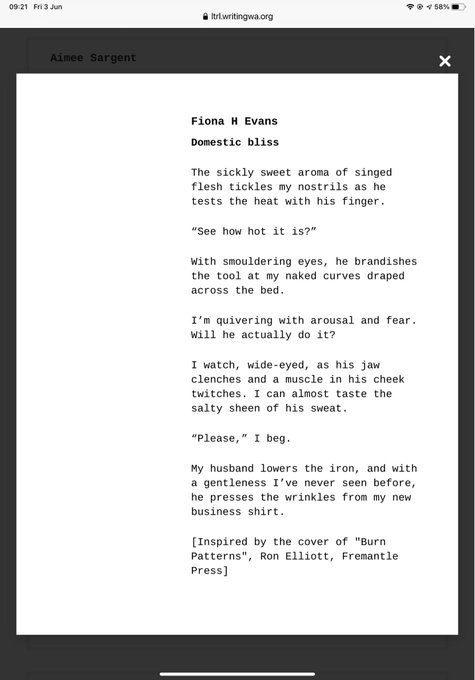
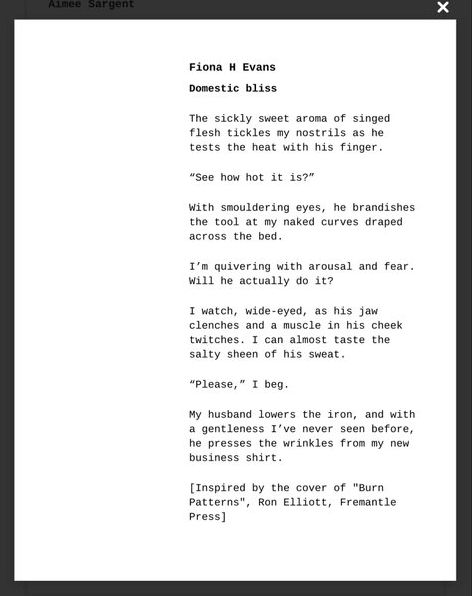
Domestic Bliss

Changed region(s): [[0.0, 0.0, 1.0, 0.9966], [0.3856, 0.3322, 0.8898, 0.604], [0.3856, 0.6342, 0.8898, 0.8758]]

diff --git a/content/post/2022-06-03.html b/content/post/2022-06-03.html
@@ -13,16 +13,25 @@ tags: ["Drabble", "Microfiction"]
 
 
 <p>My entry the WA Writing Love to Read Local Flash Fiction Competition is <a href="https://ltrl.writingwa.org/flash-fiction-competition-entries/page/8/#book1603">online</a>.</p>
-<p><b>Domestic bliss</b></p>
-<p>The sickly sweet aroma of singed flesh tickles my nostrils as he tests the heat with his finger.</p>
-<p>“See how hot it is?”</p>
-<p>With smouldering eyes, he brandishes the tool at my naked curves draped across the bed.</p>
-<p>I’m quivering with arousal and fear. Will he actually do it?</p>
-<p>I watch, wide-eyed, as his jaw clenches and a muscle in his cheek twitches. I can almost taste the salty sheen of his sweat.</p>
-<p>“Please,” I beg.</p>
-<p>My husband lowers the iron, and with a gentleness I’ve never seen before, he presses the wrinkles from my new business shirt.</p>
-<p>[Inspired by the cover of “Burn Patterns”, Ron Elliott, Fremantle Press]</p>
+<!--
+<b>Domestic bliss</b>
+
+The sickly sweet aroma of singed flesh tickles my nostrils as he tests the heat with his finger.
+
+“See how hot it is?”
+
+With smouldering eyes, he brandishes the tool at my naked curves draped across the bed.
+
+I’m quivering with arousal and fear. Will he actually do it?
+
+I watch, wide-eyed, as his jaw clenches and a muscle in his cheek twitches. I can almost taste the salty sheen of his sweat.
+
+“Please,” I beg.
+
+My husband lowers the iron, and with a gentleness I’ve never seen before, he presses the wrinkles from my new business shirt.
+
+[Inspired by the cover of "Burn Patterns", Ron Elliott, Fremantle Press] -->
 <!--  image in static/media -->
 <!-- ![Domestic Bliss](WritingWA.jpg) -->
-<p><img src="WritingWA.jpg" />
+<p><img src="/media/img/WritingWA.jpg" />
 <br></p>
